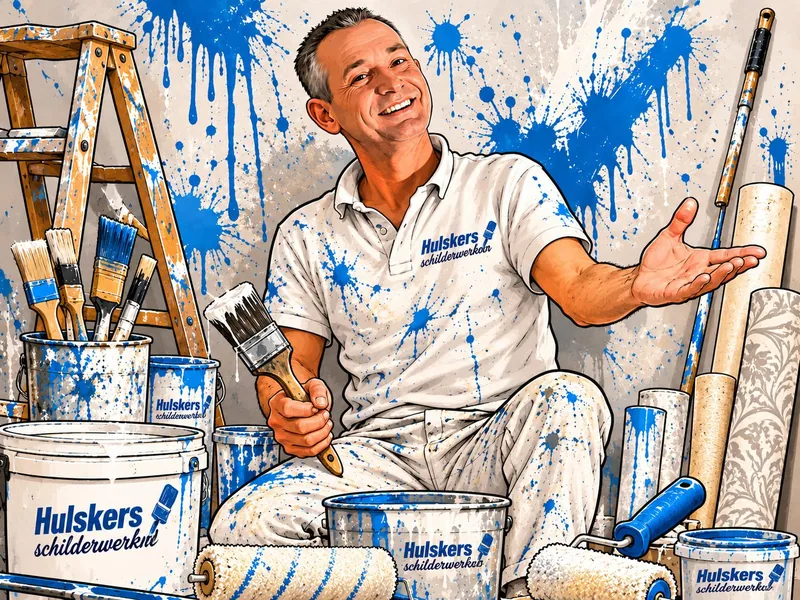
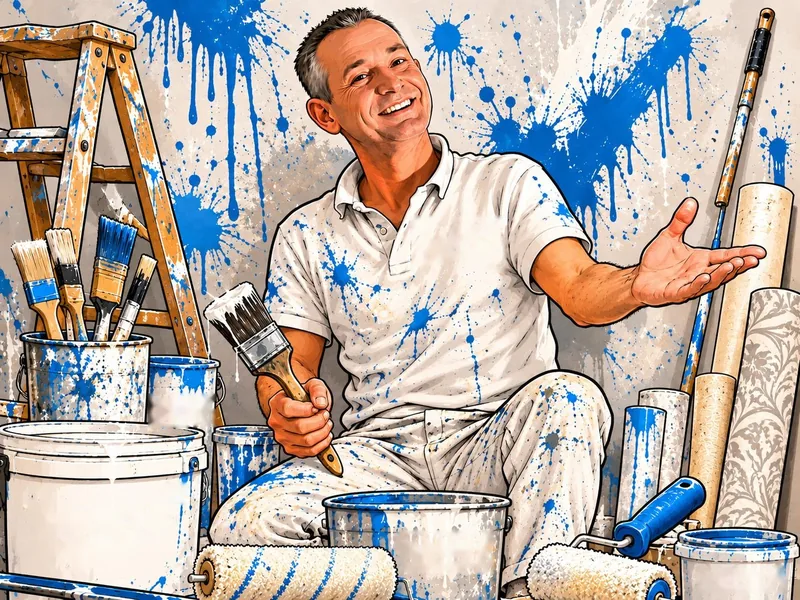
fix(hulskersschilderwerken): woordmerk uit de getekende Pascal gepoetst
Het model had zijn woordmerk vijf keer nageschreven en de onderregel vijf keer
anders gespeld (schilderwerkobn, schilderwerknd, ...). Armando: "kan die niet
helemaal" - dus alles weg, niet vijf regels repareren.

Opnieuw laten tekenen kon niet: twee rondes met de tekening als referentie en de
opdracht alleen de letters te wissen gaven allebei een ander gezicht. Een model
bewerkt niet, het tekent opnieuw, en dit is een portret van een echt mens.

poets-woordmerk.py raakt daarom alleen de merkpixels aan: per vak maskeren wat van
de vlakke ondergrond afwijkt (medianBlur als schatting van emmerwand of polo, plus
een blauwsleutel voor het kwastje) en invullen met cv2.inpaint. Op de kleur keuren
alleen liet de schuine onderregel als grijze schim staan - haar randen zijn
halfdoorzichtig navy.

Drie eisen in het script, alle drie getest door ze stuk te maken:
- buiten de vakken is geen pixel veranderd
- na het poetsen staat er in geen vak nog merkblauw (een te krap vak laat een
  letterstaart of een kwaststeel liggen)
- BLAUW_MAG draagt de uitzondering met de reden (echte verfdruiper in de hoek van
  het rechtervak) en zakt zodra hij niets meer raakt

Het origineel blijft liggen; fotos.py leest pascal-tekening-schoon.jpg, dus
terugdraaien is dat -schoon weghalen.

diff --git a/apps/.aangeleverd-hulskers/poets-woordmerk.py b/apps/.aangeleverd-hulskers/poets-woordmerk.py
@@ -1,0 +1,116 @@
+# -*- coding: utf-8 -*-
+"""
+Poetst het nageschreven woordmerk uit de tekening van Pascal.
+
+Waarom niet opnieuw laten tekenen: een model bewerkt niet, het tekent de plaat
+opnieuw, en dan verandert zijn gezicht mee (gemeten 02-11-2026: twee rondes gaven
+allebei een andere man). Dit raakt alleen de pixels van het merk zelf; de rest van
+het bestand blijft wat het was.
+
+Per vak wordt alles gemaskerd wat van de vlakke ondergrond afwijkt (letters plus
+kwastje), opgerekt en ingevuld met de omliggende emmer- of polokleur
+(cv2.inpaint, TELEA). De vakken staan krap om de echte verfspatten en -druipers
+buiten te houden.
+
+    python poets-woordmerk.py     schrijft fotos/pascal-tekening-schoon.jpg
+
+Daarna fotos.py draaien; die leest de schone plaat. Het origineel blijft liggen,
+dus terugdraaien is de bestandsnaam in fotos.py weghalen.
+"""
+import os
+import sys
+
+import cv2
+import numpy as np
+
+HIER = os.path.dirname(os.path.abspath(__file__))
+BRON = os.path.join(HIER, 'fotos', 'pascal-tekening.jpg')
+UIT = os.path.join(HIER, 'fotos', 'pascal-tekening-schoon.jpg')
+
+# (links, boven, rechts, onder) rond elk logo. Krap gehouden: de blauwe druipers
+# naast de grote emmer en op de kleine emmer horen bij de tekening en blijven.
+VAKKEN = {
+    'polo':         (745, 392, 915, 492),
+    'emmer-groot':  (56, 903, 318, 1012),
+    'kwast-groot':  (276, 874, 334, 912),   # de steel van het kwastje stak boven het vak uit
+    'emmer-klein':  (270, 714, 388, 772),
+    'emmer-midden': (724, 962, 892, 1038),
+    'emmer-rechts': (1248, 1020, 1418, 1074),
+}
+
+# Hoeveel blauw er na het poetsen in een vak mag blijven staan, met de reden erbij.
+# Zonder reden is de grens 0,4 procent, en dat is in de praktijk nul. Een
+# uitzondering zakt zelf zodra hij niets meer raakt, anders dekt hij over een maand
+# een letterstaart toe.
+BLAUW_MAG = {
+    'emmer-rechts': (0.012, 'verfdruiper in de rechterbovenhoek, die hoort bij de tekening'),
+}
+
+
+def merkmasker(vak):
+    """Alles wat van de ondergrond afwijkt, niet alleen het verzadigde blauw.
+
+    Op de kleur keuren liet de schuine letters als grijze schim staan: hun randen
+    zijn halfdoorzichtig navy en haalden de blauwdrempel niet. De ondergrond zelf
+    (emmerwand, polo) is vlak, dus een forse mediaan is een goede schatting
+    daarvan, en alles wat daar duidelijk van afwijkt is letter of kwastje.
+    """
+    grond = cv2.medianBlur(vak, 51)
+    grijs = cv2.cvtColor(vak, cv2.COLOR_BGR2GRAY).astype(np.int16)
+    grondgrijs = cv2.cvtColor(grond, cv2.COLOR_BGR2GRAY).astype(np.int16)
+    donkerder = grondgrijs - grijs            # letters zijn donkerder dan de wand
+    b, g, r = cv2.split(vak.astype(np.int16))
+    masker = ((donkerder > 26) | (b - r > 30)).astype(np.uint8) * 255
+    # Losse gaten binnen een letter dichttrekken, anders blijft er een kern staan.
+    return cv2.morphologyEx(masker, cv2.MORPH_CLOSE,
+                            cv2.getStructuringElement(cv2.MORPH_ELLIPSE, (9, 9)))
+
+
+def main():
+    plaat = cv2.imread(BRON)
+    if plaat is None:
+        sys.exit('poets.py: %s niet gelezen' % BRON)
+    h, w = plaat.shape[:2]
+
+    heel = np.zeros((h, w), np.uint8)
+    for naam, (x1, y1, x2, y2) in VAKKEN.items():
+        if not (0 <= x1 < x2 <= w and 0 <= y1 < y2 <= h):
+            sys.exit('poets.py: vak %s valt buiten de plaat %dx%d' % (naam, w, h))
+        m = merkmasker(plaat[y1:y2, x1:x2])
+        dekking = float((m > 0).mean())
+        if not 0.04 < dekking < 0.75:
+            sys.exit('poets.py: vak %s dekt %.2f van zijn vlak - vak of sleutel klopt niet'
+                     % (naam, dekking))
+        heel[y1:y2, x1:x2] = m
+        print('%-13s %5.1f%% gemaskerd' % (naam, dekking * 100))
+
+    heel = cv2.dilate(heel, cv2.getStructuringElement(cv2.MORPH_ELLIPSE, (7, 7)), iterations=1)
+    schoon = cv2.inpaint(plaat, heel, 9, cv2.INPAINT_TELEA)
+
+    # Buiten de vakken mag geen pixel veranderd zijn.
+    buiten = np.ones((h, w), bool)
+    for x1, y1, x2, y2 in VAKKEN.values():
+        buiten[max(0, y1 - 6):y2 + 6, max(0, x1 - 6):x2 + 6] = False
+    if (plaat[buiten] != schoon[buiten]).any():
+        sys.exit('poets.py: er is buiten de vakken iets veranderd')
+
+    # En er mag in geen enkel vak nog merkblauw staan. Dit is de eigenlijke eis:
+    # een vak dat net te krap staat laat een letterstaart of een kwaststeel liggen,
+    # en dat is precies wat er op de pagina niet mag staan.
+    for naam, (x1, y1, x2, y2) in VAKKEN.items():
+        b, g, r = cv2.split(schoon[y1:y2, x1:x2].astype(np.int16))
+        rest = float((((b - r) > 30) & (r < 170)).mean())
+        grens, reden = BLAUW_MAG.get(naam, (0.004, None))
+        if rest > grens:
+            sys.exit('poets-woordmerk.py: in %s staat nog %.1f%% merkblauw - vak te krap'
+                     % (naam, rest * 100))
+        if reden and rest <= 0.004:
+            sys.exit('poets-woordmerk.py: de uitzondering voor %s (%s) raakt niets meer - weghalen'
+                     % (naam, reden))
+
+    cv2.imwrite(UIT, schoon, [cv2.IMWRITE_JPEG_QUALITY, 95])
+    print('geschreven:', UIT)
+
+
+if __name__ == '__main__':
+    main()

diff --git a/apps/hulskersschilderwerken/fotos.py b/apps/hulskersschilderwerken/fotos.py
@@ -49,7 +49,13 @@ UITSNEDES = {
     # De bron is al exact 4:3, dus er wordt hier niets afgesneden en de focus doet
     # niets - die staat er voor het geval de foto terugkomt. Terugdraaien is dit
     # bestandsnaampje weghalen; pascal-portret.jpg ligt er nog.
-    'pascal-portret':        (4 / 3, 0.60, 0.45, [1200, 800], 'pascal-tekening'),
+    #
+    # -schoon: het model had zijn woordmerk nageschreven en de onderregel op alle
+    # vijf de plekken verkeerd gespeld (schilderwerkobn, schilderwerknd, ...). Dat
+    # is weggepoetst met ../.aangeleverd-hulskers/poets-woordmerk.py, dat alleen die
+    # vijf vakken aanraakt. Opnieuw laten tekenen kon niet: dan tekent het model ook
+    # zijn gezicht opnieuw, en dat is zijn gezicht niet meer.
+    'pascal-portret':        (4 / 3, 0.60, 0.45, [1200, 800], 'pascal-tekening-schoon'),
     # Kleurkaarten, staand 3:4. De slaapkamerfoto zat hier eerst bij, maar die is te
     # donker belicht om een kleur te laten zien: elk monster kwam onder #52 uit.
     'overloop-taupe':        (3 / 4, 0.55, 0.45, KAART),

diff --git a/apps/hulskersschilderwerken/README.md b/apps/hulskersschilderwerken/README.md
@@ -1510,3 +1510,42 @@ Op 1440 snijdt `object-fit: cover` het vak (529x625) uit een 4:3 beeld, dus de
 emmer linksonder en de rollen rechts vallen weg; wat overblijft is de polo. Op 390
 zie je juist de emmers wel. De twee uitsnedes zijn dus niet dezelfde tekening -
 daarom staat `tools/kijk-vakman.mjs` erbij in plaats van een fullPage-plaat.
+
+## Ronde 24 (02-11-2026): het nageschreven woordmerk uit de tekening
+
+Armando: "kan die niet helemaal" - dus geen woordmerk meer op de polo en de
+emmers, niet de vijf foute onderregels afzonderlijk repareren.
+
+**Opnieuw laten tekenen kon niet.** Dat was de eerste poging: dezelfde tekening
+als referentie, met de opdracht alleen de letters weg te halen en man, houding,
+licht en kader te laten staan. Twee rondes gaven allebei een plaat zonder tekst
+en allebei een ANDER gezicht - smaller, andere kaaklijn, andere haargrens. Zelfde
+regel als bij de airco-foto's van woudenberg: een model bewerkt niet, het tekent
+opnieuw. Bij een portret van een echt mens is dat geen detail.
+
+**Dus alleen de merkpixels, met de rest van het bestand onaangeraakt.**
+`.aangeleverd-hulskers/poets-woordmerk.py` maskert per vak wat van de vlakke
+ondergrond afwijkt (`medianBlur 51` als schatting van emmerwand of polo, plus een
+blauwsleutel voor het kwastje) en vult dat met `cv2.inpaint`. Zes vakken: polo,
+drie emmers, de steel van het kwastje die boven de grote emmer uitstak, en de
+emmer rechtsonder.
+
+Drie dingen die dit script zelf bewaakt:
+
+1. **Buiten de vakken mag geen pixel veranderd zijn.** Dat is de hele belofte van
+   deze aanpak, dus het is een eis en geen aanname.
+2. **Na het poetsen mag er in geen vak nog merkblauw staan.** Een vak dat een paar
+   pixels te krap staat laat een letterstaart of een kwaststeel liggen, en dat is
+   precies wat er niet op de pagina mag. Getest door `emmer-midden` expres te
+   verkleinen: 5,4 procent blauw, gate gaat af.
+3. **`BLAUW_MAG` draagt de uitzondering met de reden.** De emmer rechtsonder heeft
+   een echte verfdruiper in de hoek van zijn vak, die hoort bij de tekening. De
+   uitzondering zakt zelf zodra hij niets meer raakt - ook getest.
+
+Op de kleur keuren alleen was niet genoeg: "Hulskers" is vol navy en verdween,
+maar de schuine onderregel heeft halfdoorzichtige randen en bleef als grijze schim
+staan. Dat zag je pas door na het poetsen naar de uitsnede te kijken, niet aan het
+percentage.
+
+De bron blijft `pascal-tekening.jpg`; `fotos.py` leest nu
+`pascal-tekening-schoon.jpg`. Terugdraaien is dat `-schoon` weghalen.
